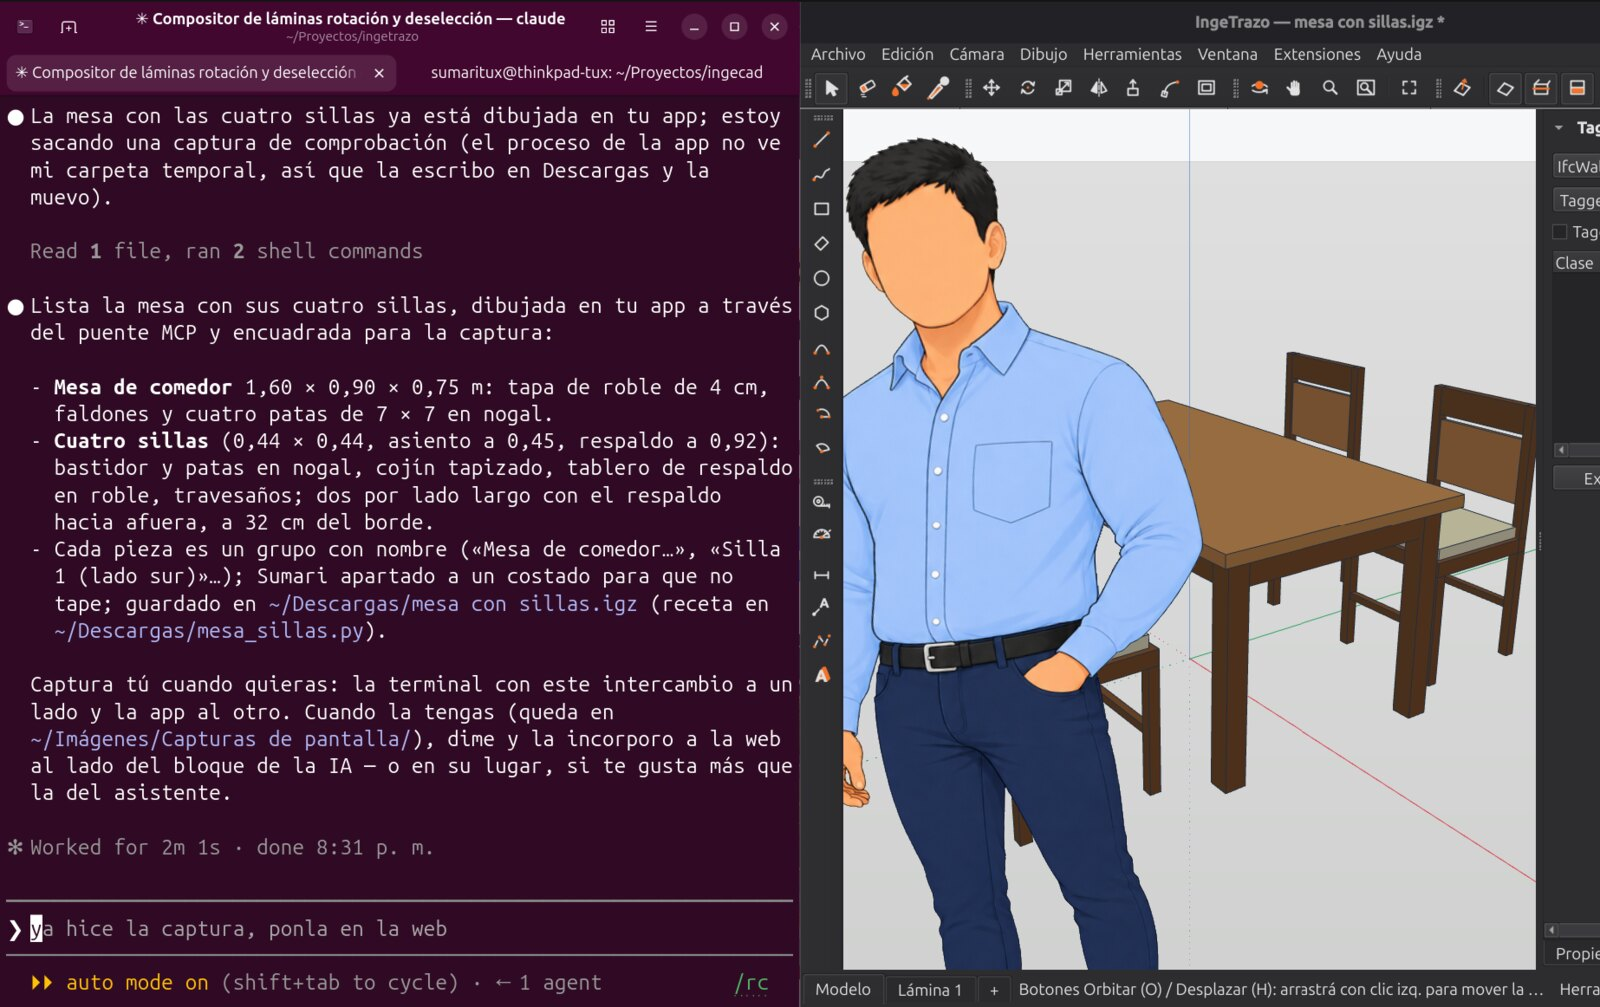
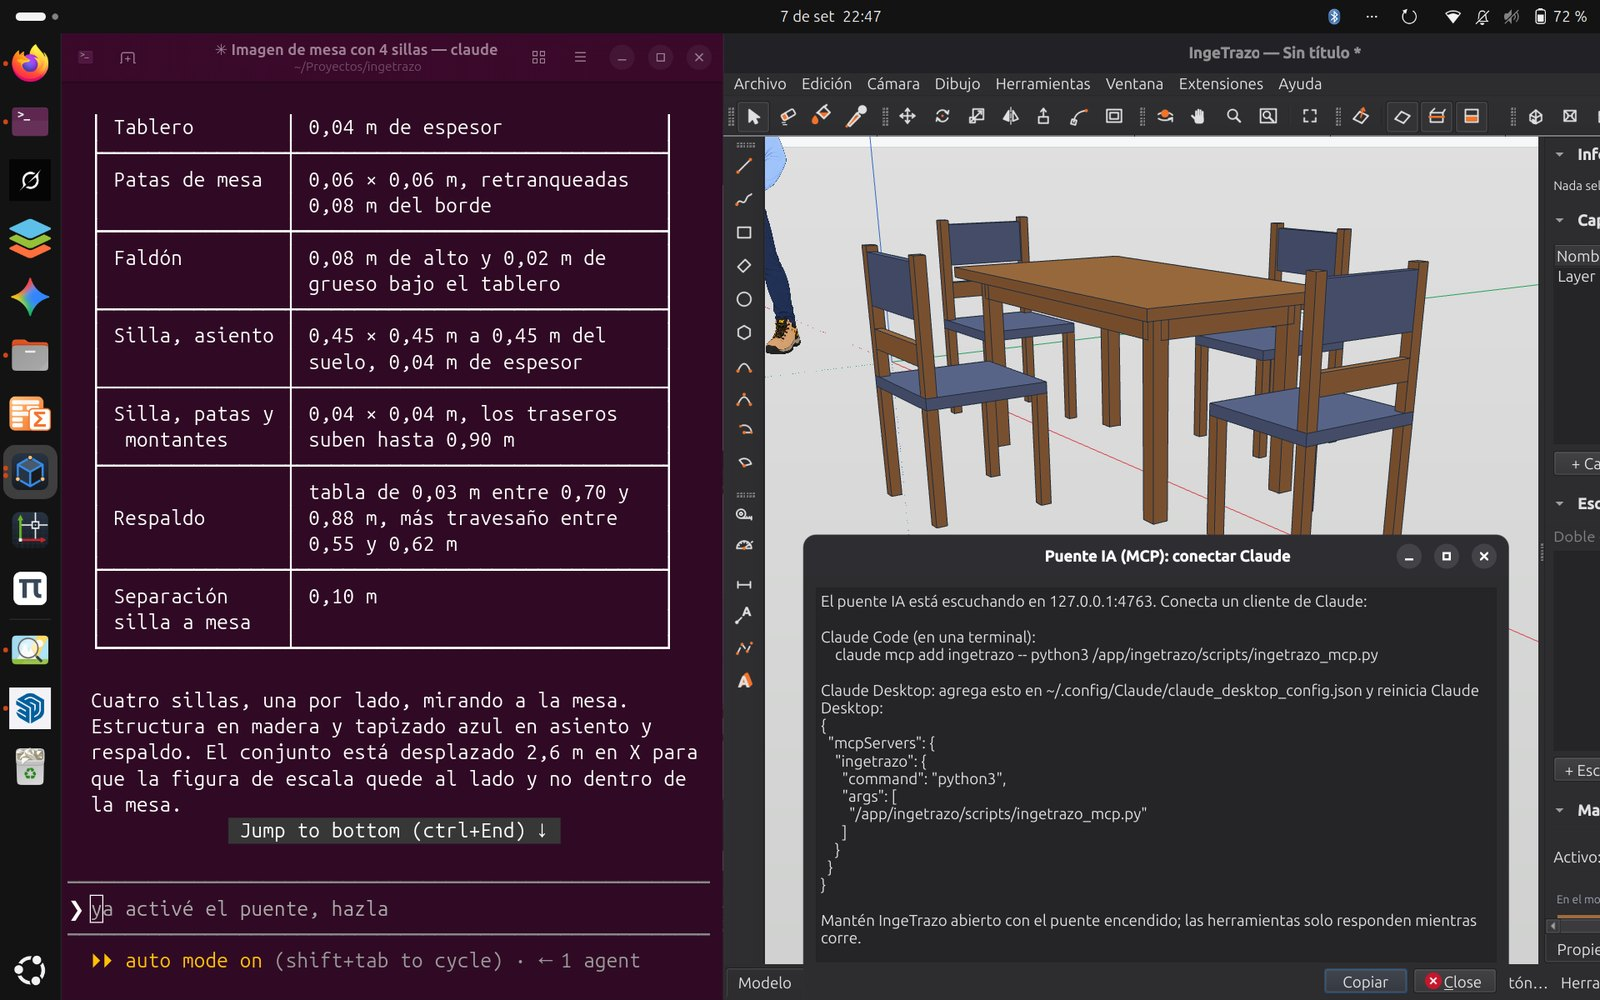
IA: captura del puente MCP a pantalla completa en Ubuntu, con las medidas de la mesa y 4 sillas
Marco la tomó sin recortar a propósito: que se vea el escritorio Ubuntu
entero, la terminal con Claude Code y IngeTrazo con el diálogo del puente.
Pie y alt actualizados con las dimensiones usadas.

Claude-Session: https://claude.ai/code/session_01JMtKZWLyQj549hbuFgguMB

diff --git a/index.html b/index.html
@@ -303,13 +303,13 @@
             <li><strong>Puente MCP para Claude Desktop y Claude Code</strong> — el agente dibuja, consulta y ve el modelo <em>en vivo, en la app abierta</em>; un paso de deshacer por acción y, si su código falla, el documento vuelve entero</li>
             <li><strong>Sin caja negra</strong> — la IA nunca escribe mallas: genera recetas sobre el mismo motor que usas a mano, y todo queda en el historial</li>
           </ul>
-          <p class="feat-muted"><strong>Arriba, el puente MCP:</strong> Claude Code en la terminal acaba de dibujar una mesa de comedor con cuatro sillas en la app abierta al lado —«diseña una mesa con sillas»— y cuenta lo que hizo. Cómo se hace: Extensiones ▸ Puente IA (MCP), copiar la línea que te muestra, pegarla en la terminal (<code>claude mcp add ingetrazo -- …</code>) o en la configuración de Claude Desktop, y pedirle lo que quieras con IngeTrazo abierto.</p>
+          <p class="feat-muted"><strong>Arriba, el puente MCP</strong> en un escritorio Ubuntu, sin recortes: Claude Code en la terminal acaba de dibujar en la app abierta al lado una mesa de comedor de 1,40 × 0,80 × 0,75 m con cuatro sillas (asiento de 0,45 × 0,45 a 0,45 m, respaldo a 0,90 m) —«una mesa con 4 sillas, medidas estándar»— y responde con la tabla de dimensiones que usó; a la derecha, el diálogo del puente con la línea de conexión. Cómo se hace: Extensiones ▸ Puente IA (MCP), copiar la línea que te muestra, pegarla en la terminal (<code>claude mcp add ingetrazo -- …</code>) o en la configuración de Claude Desktop, y pedirle lo que quieras con IngeTrazo abierto.</p>
           <p class="feat-muted"><strong>Abajo, el Asistente IA:</strong> el diálogo abierto sobre el poste solar de los ejemplos (diseñado también por el puente). Cómo se hace: Extensiones ▸ Asistente IA (Ctrl+Mayús+A), pegar la clave del proveedor, escribir el pedido con sus medidas —o adjuntar una foto— y Enviar; cada paso se deshace con Ctrl+Z. Otros modeladores venden esto por suscripción; aquí es libre y usas la clave que tú elijas. <a href="https://ingetrazo-docs.pages.dev/ia/" target="_blank" rel="noopener">Guía paso a paso en el manual →</a></p>
         </div>
         <div class="feat-imgs">
           <figure class="feat-img">
             <img class="zoomable" src="images/screenshots/mcp-claude.jpeg"
-                 alt="Claude Code en una terminal diseñando una mesa de comedor con cuatro sillas dentro de IngeTrazo, abierto al lado, a través del puente MCP" width="1600" height="1007" loading="lazy">
+                 alt="Escritorio Ubuntu completo: Claude Code en una terminal a la izquierda listando las medidas de la mesa con cuatro sillas que acaba de dibujar, e IngeTrazo a la derecha con el modelo y el diálogo del Puente IA (MCP) abierto" width="1600" height="1000" loading="lazy">
           </figure>
           <figure class="feat-img">
             <img class="zoomable" src="images/screenshots/asistente-ia.jpeg"

diff --git a/CLAUDE.md b/CLAUDE.md
@@ -62,6 +62,14 @@ Renovadas COMPLETAS el 2026-08-08 con capturas manuales de Marco (fuente:
   con `import -window` y el diálogo con `grab()`, compuestos en su posición
   real con sombra (script `captura_ia2.py` del scratchpad de la sesión).
 
+- `mcp-claude.jpeg` — (2026-09-07) captura manual de Marco del **escritorio
+  Ubuntu completo** (barra superior y dock incluidos, a propósito: que se vea
+  que corre en Linux): Claude Code en la terminal con la tabla de medidas de
+  la mesa con 4 sillas que acaba de dibujar por el puente, e IngeTrazo
+  (Flatpak) al lado con el modelo y el diálogo «Puente IA (MCP)» abierto.
+  Fuente `~/Imágenes/Capturas de pantalla/Captura desde 2026-09-07 22-47-46.png`
+  (1920×1200) → JPEG 1600×1000 con Pillow, sin recortar.
+
 OG banner: `.cover-build/og.html` + Chromium headless (snap: solo escribe
 dentro de $HOME) → `images/og-banner.jpg`.
 
